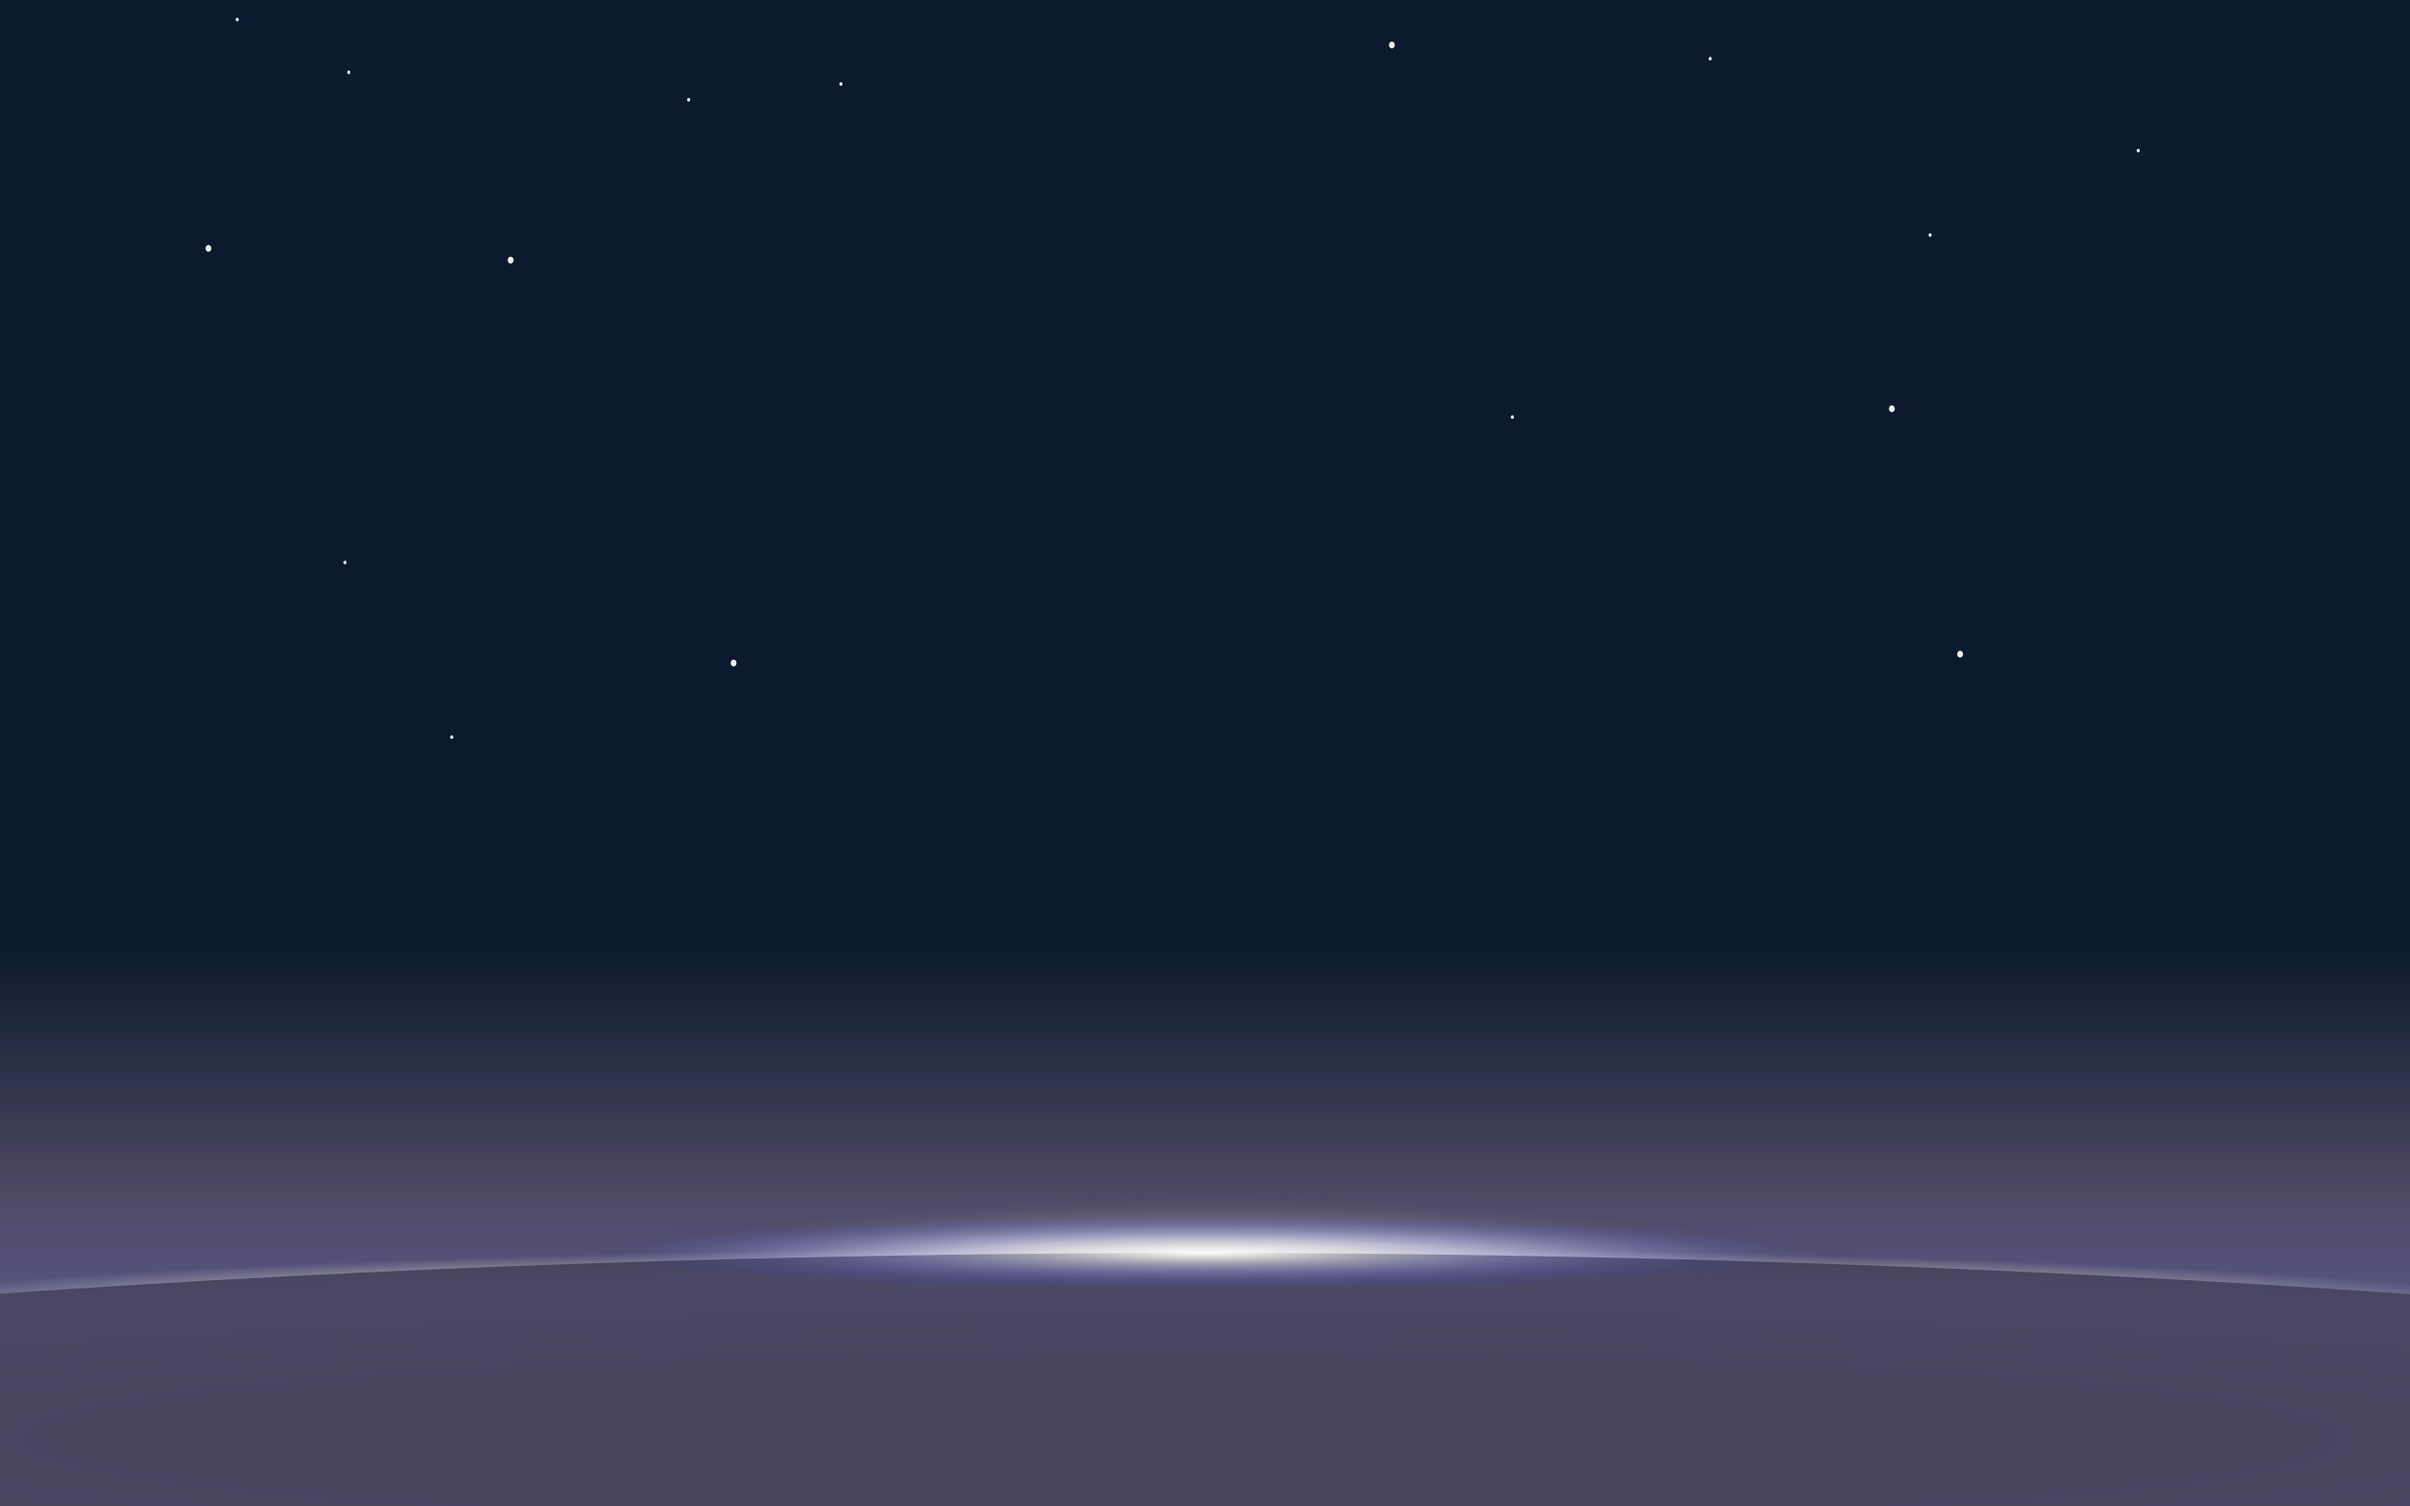
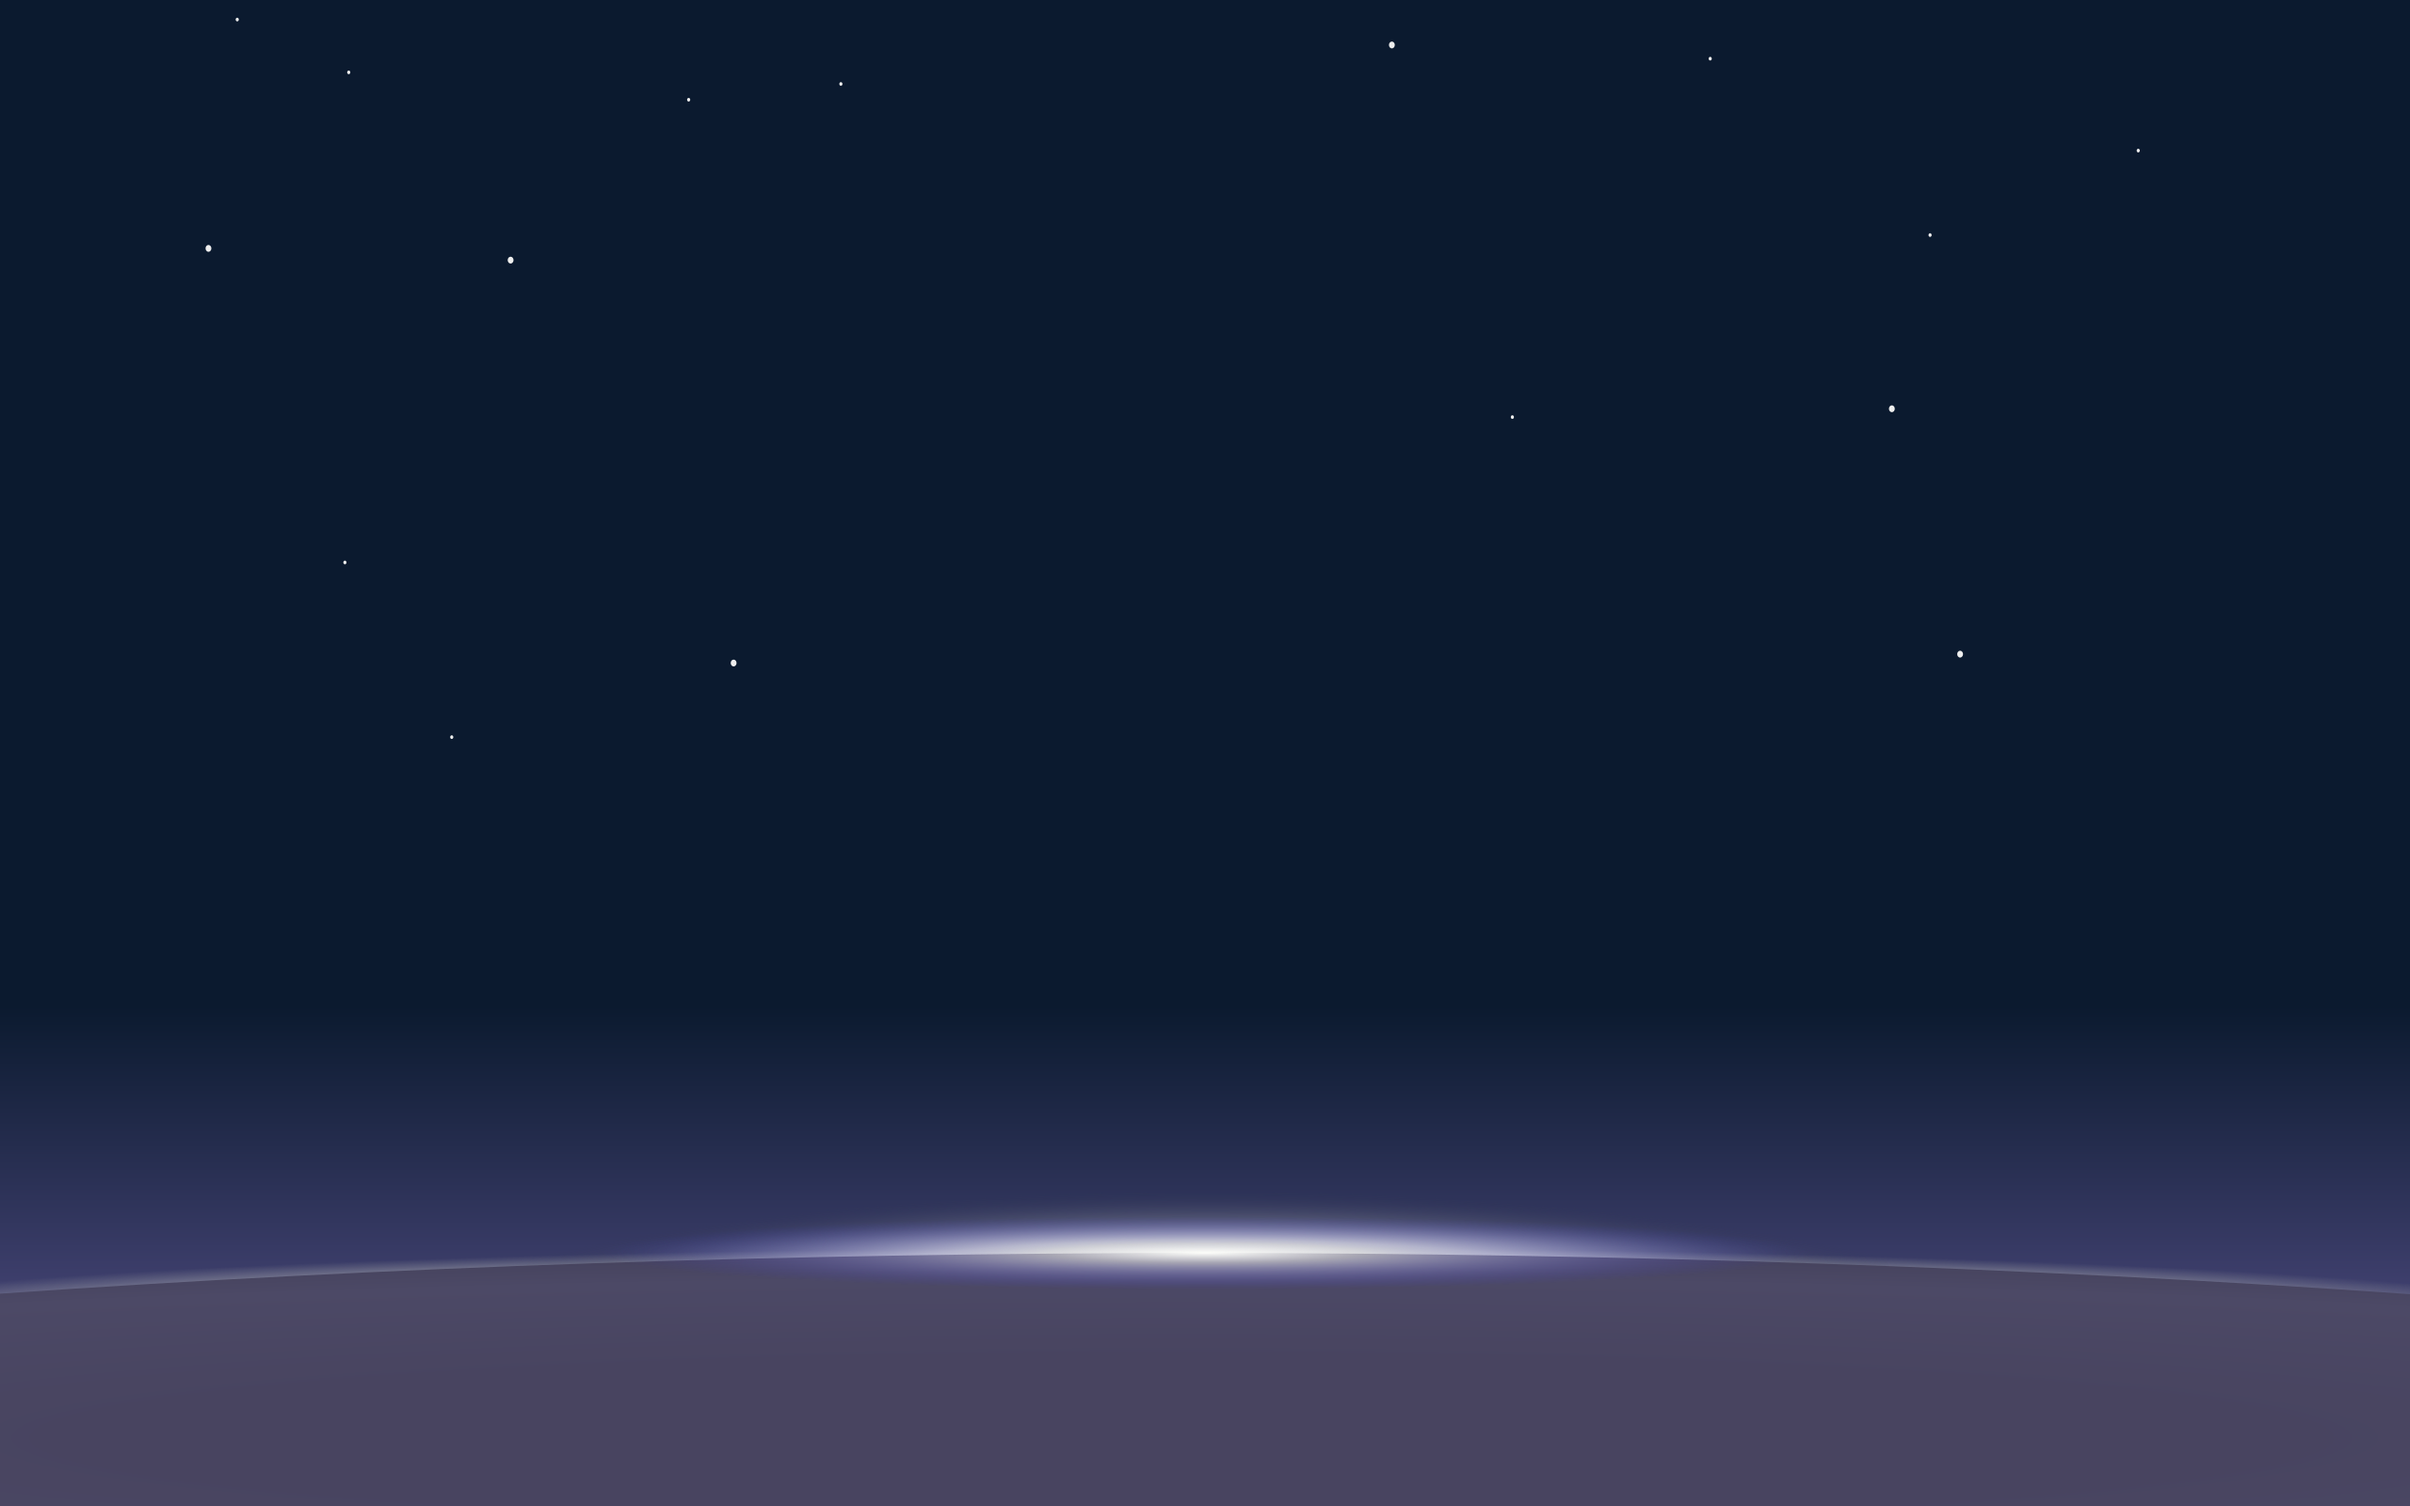
Remove bright section and add starry footer

Changed region(s): [[0.0, 0.7188, 1.0, 0.875]]

diff --git a/css/theme.css b/css/theme.css
@@ -421,7 +421,7 @@ body {
   font-family: "Raleway", sans-serif;
   font-size: 1rem;
   line-height: 2;
-  color: #424753;
+  color: #eee;
   background-color: #fff; }
 
 h1, h2, h3, h4, h5, h6 {
@@ -3542,7 +3542,7 @@ button.list-group-item-state {
   text-transform: capitalize; }
 
 .text-muted {
-  color: #818a91; }
+  color: #bebce5; }
 
 .text-primary {
   color: #6c59b4; }
@@ -4262,13 +4262,7 @@ a.bg-danger:hover {
   background-color: #fff; }
 
 .section-features {
-    background: url("../img/reverse_background.png");
-    background-size: 100%;
-    background-position: center top;
-    background-repeat: no-repeat;
-    background-color: #e3eafd;
-    padding-top: 8rem;
-    padding-top: 12em;
+    background-color: #484460;
 }
 
 .section-intro,
@@ -4749,7 +4743,7 @@ h3 {
   font-size: 2.125rem;
   line-height: 2.5;
   text-align: center;
-  border: 5px solid #424753;
+  border: 5px solid #6F6BA7;
   border-radius: 50%; }
 
 .card-block .icon-heart {
@@ -5129,11 +5123,12 @@ figure {
   background-color: #6c59b4; }
 
 .section-footer {
-  padding-top: 4.4rem;
-  padding-bottom: 3rem; }
-  @media (min-width: 48em) {
-    .section-footer {
-      padding-bottom: 4.4rem; } }
+  background: url("../img/reverse_background.png");
+  background-size: 100%;
+  background-position: center top;
+  background-repeat: no-repeat;
+  background-color: #484460;
+  }
   .section-footer small {
     font-size: .8125rem;
     line-height: 1.538; }
@@ -5398,11 +5393,20 @@ figure {
     color: white;
 }
 
-.section-footer {
-  background-color: #484460;
-  padding: 5px;
+.section-features {
+    padding-top: 2rem;
+    padding-bottom: 2rem;
 }
 
+.section-footer {
+  background-color: #0b1a2f;
+  padding-top: 4rem;
+  padding-bottom: 1rem;
+}
+
+.section-footer .container {
+    padding-top: 4rem;
+}
 .logo-footer {
   height: 50px;
   width: auto;
